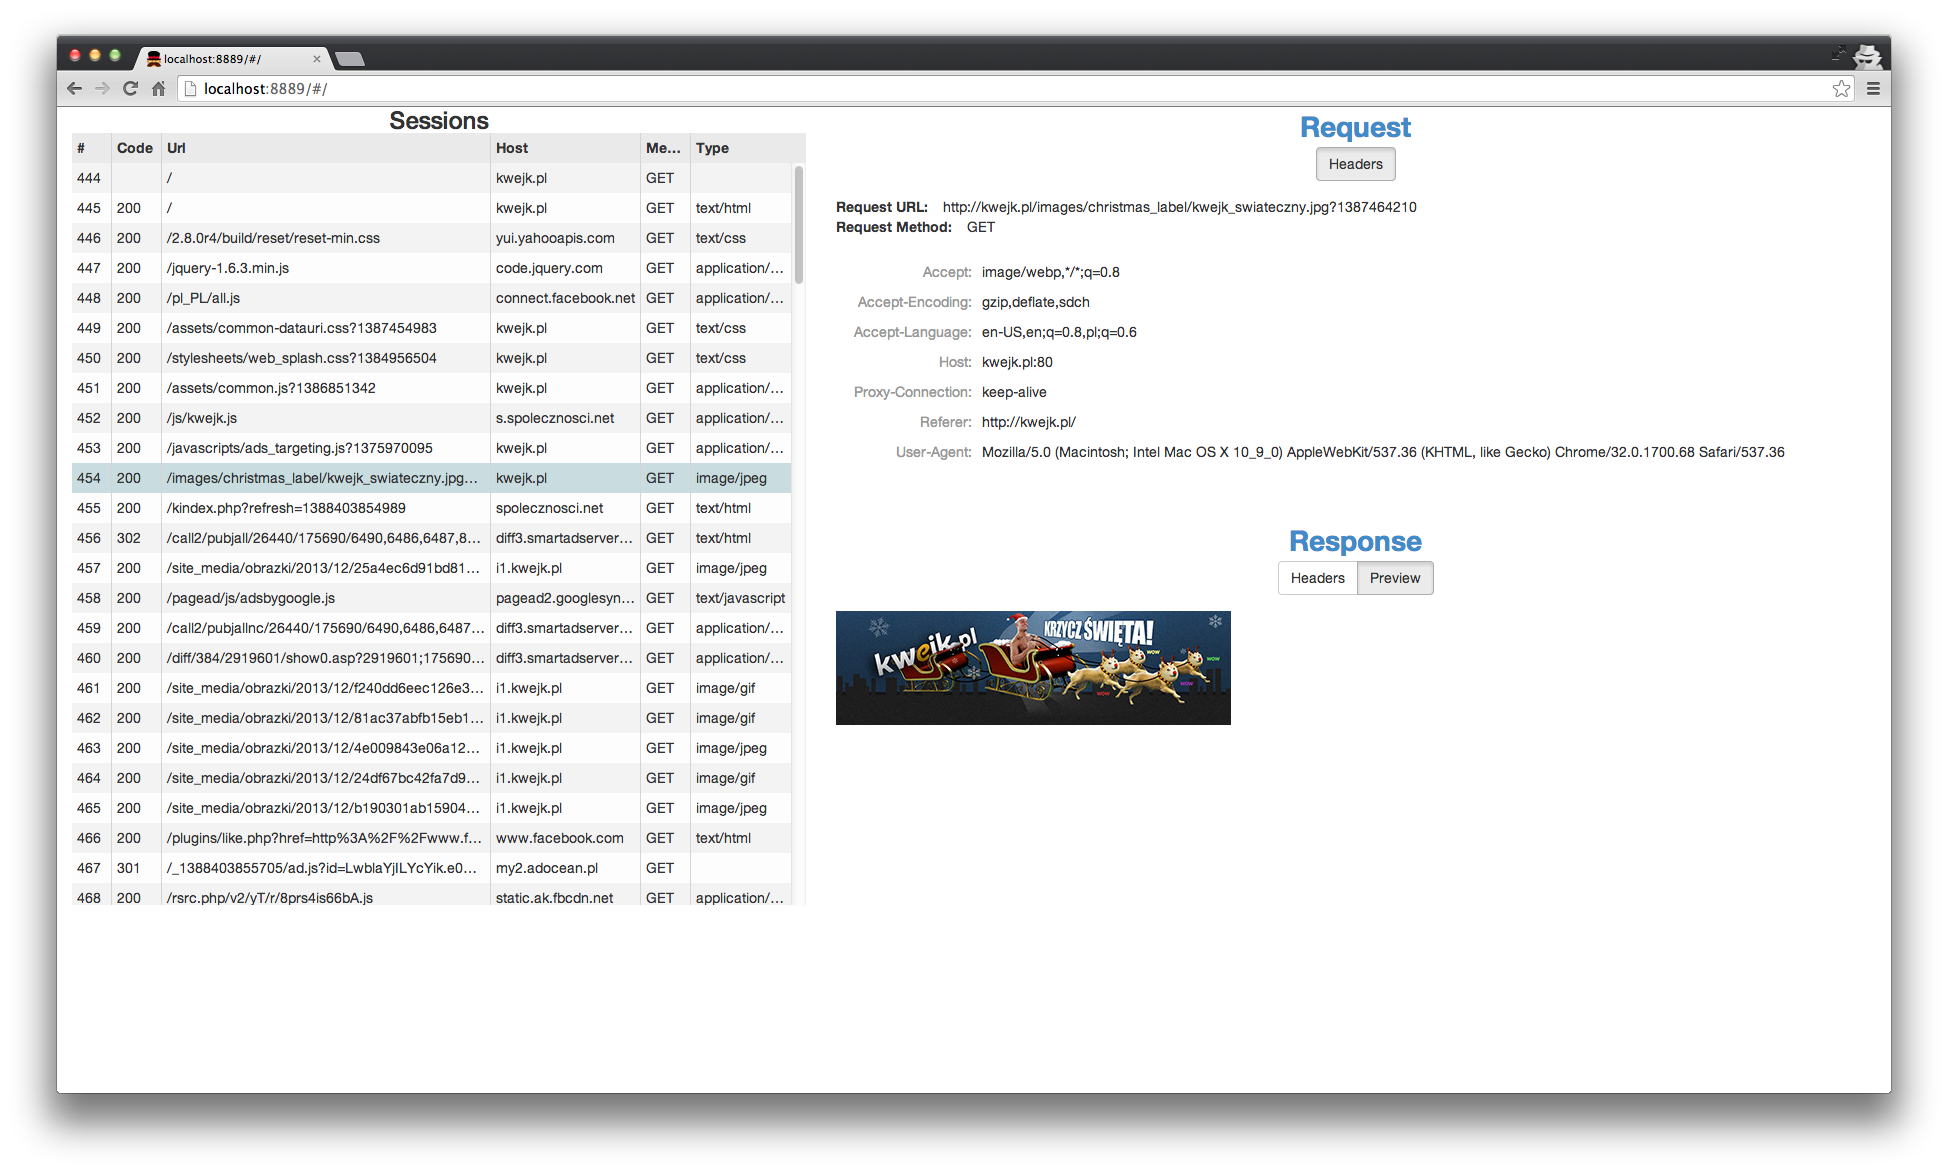
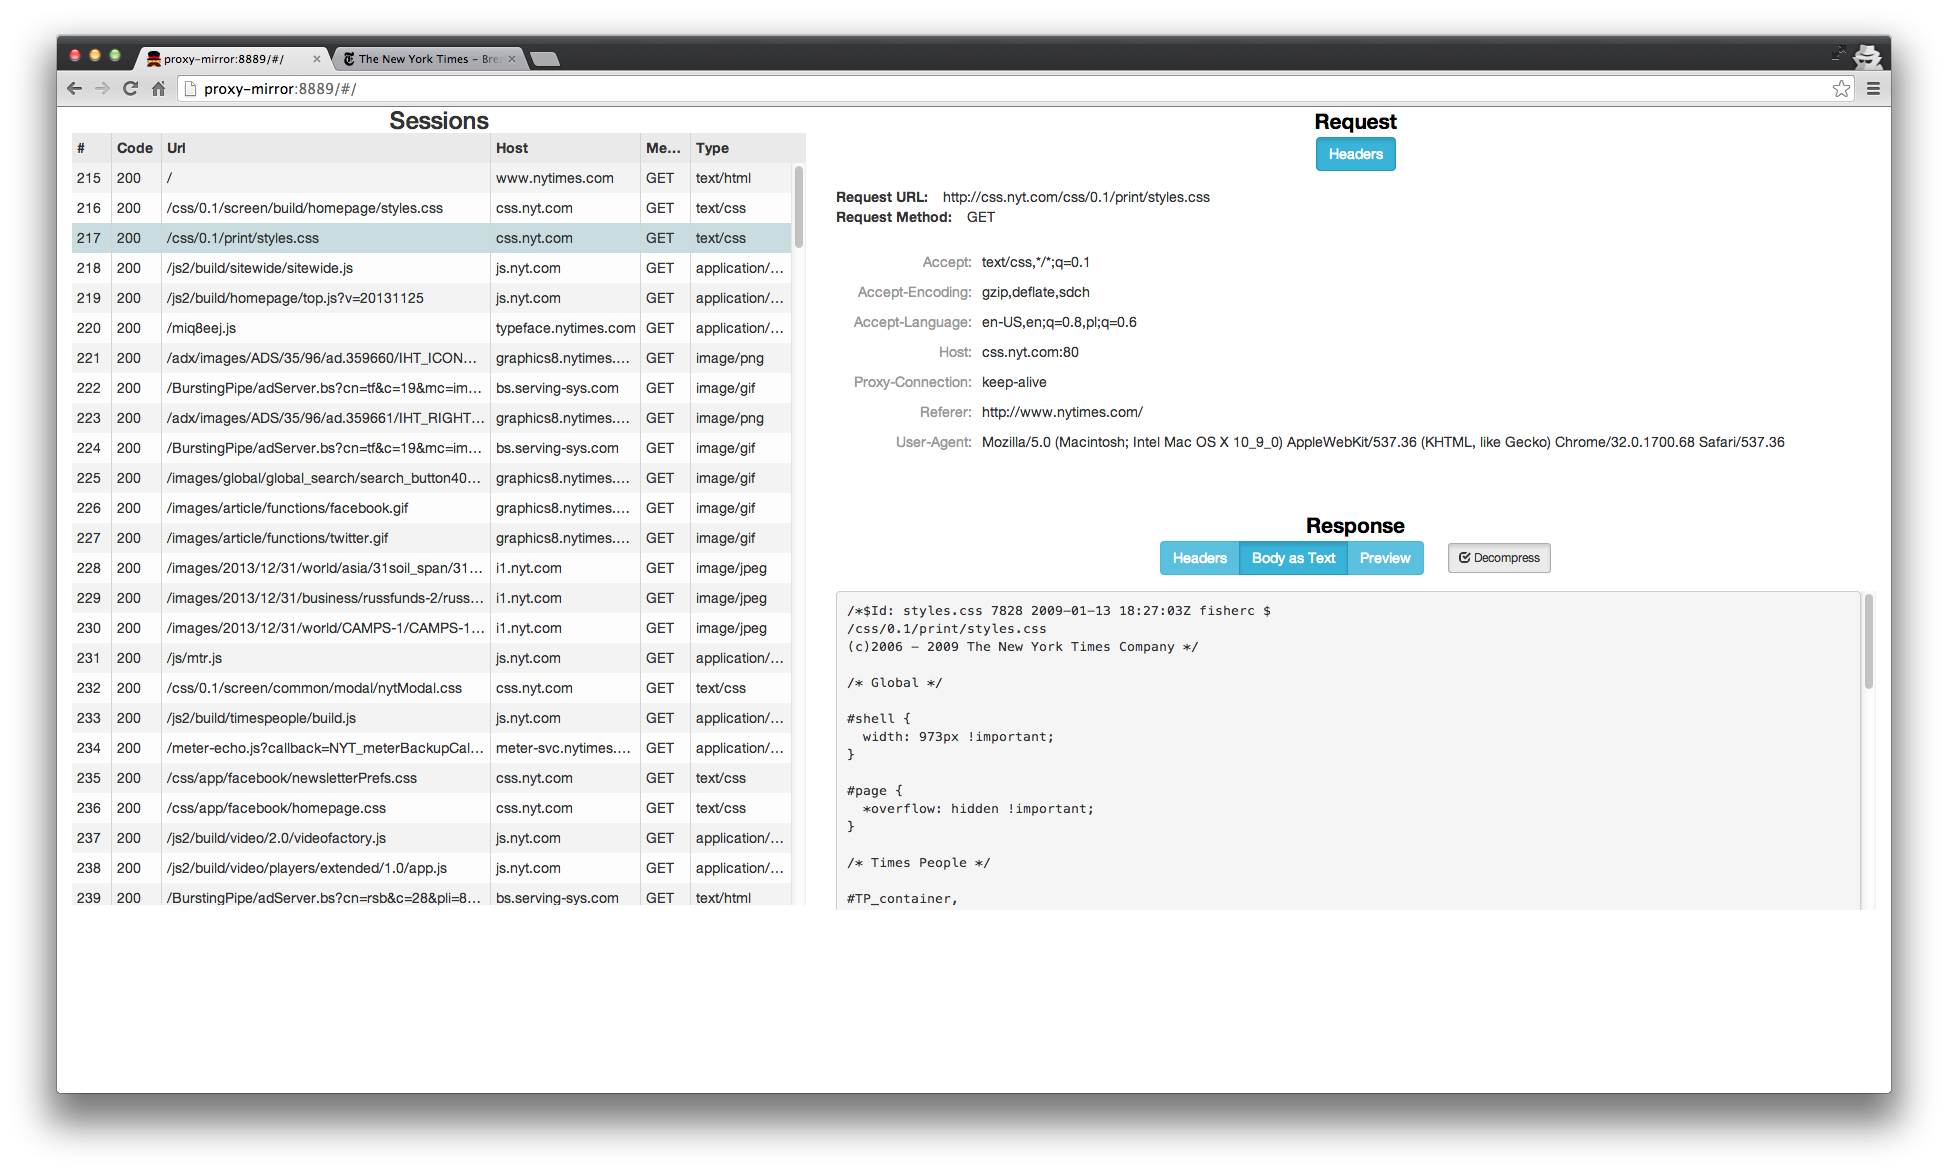
updated readme

diff --git a/README.md b/README.md
@@ -3,7 +3,7 @@ proxy-mirror
 
 proxy-mirror is a very simple http sniffer running on node. 
 
-While [Charles](http://www.charlesproxy.com/), [HTTP Scoop](http://www.tuffcode.com/) work well and they are worth the price I think it's still usefull to have **a free** alternative. 
+While [Charles](http://www.charlesproxy.com/), [HTTP Scoop](http://www.tuffcode.com/) work well and they are worth the price I think it's still useful to have **a free** alternative that hopefully will be easier to use than [mitmproxy](http://mitmproxy.org/).
 
 For Windows there is an invaluable [Fiddler](http://fiddler2.com/) and while its possible to use it from Mac or Linux it seems to me that running a virtual machine just for it is an overkill.
 
@@ -32,7 +32,7 @@ and configure your system to use proxy which is listening at `localhost:8888` th
 - windows - `./setup-proxy.ps1 -Enable/-Disable`
 - mac - `./setup-proxy.sh -enable/-disable`
 
-To see and sniff around http traffic navigate to `http://localhost:8889` and you should be able to see the following:
+To see and sniff around http traffic navigate to `http://proxy-mirror:8889` and you should be able to see the following:
 ![Screenshot Landscape](https://raw.github.com/miensol/proxy-mirror/master/misc/screenshot-landscape.png)
 
 or if you prefer smaller window
